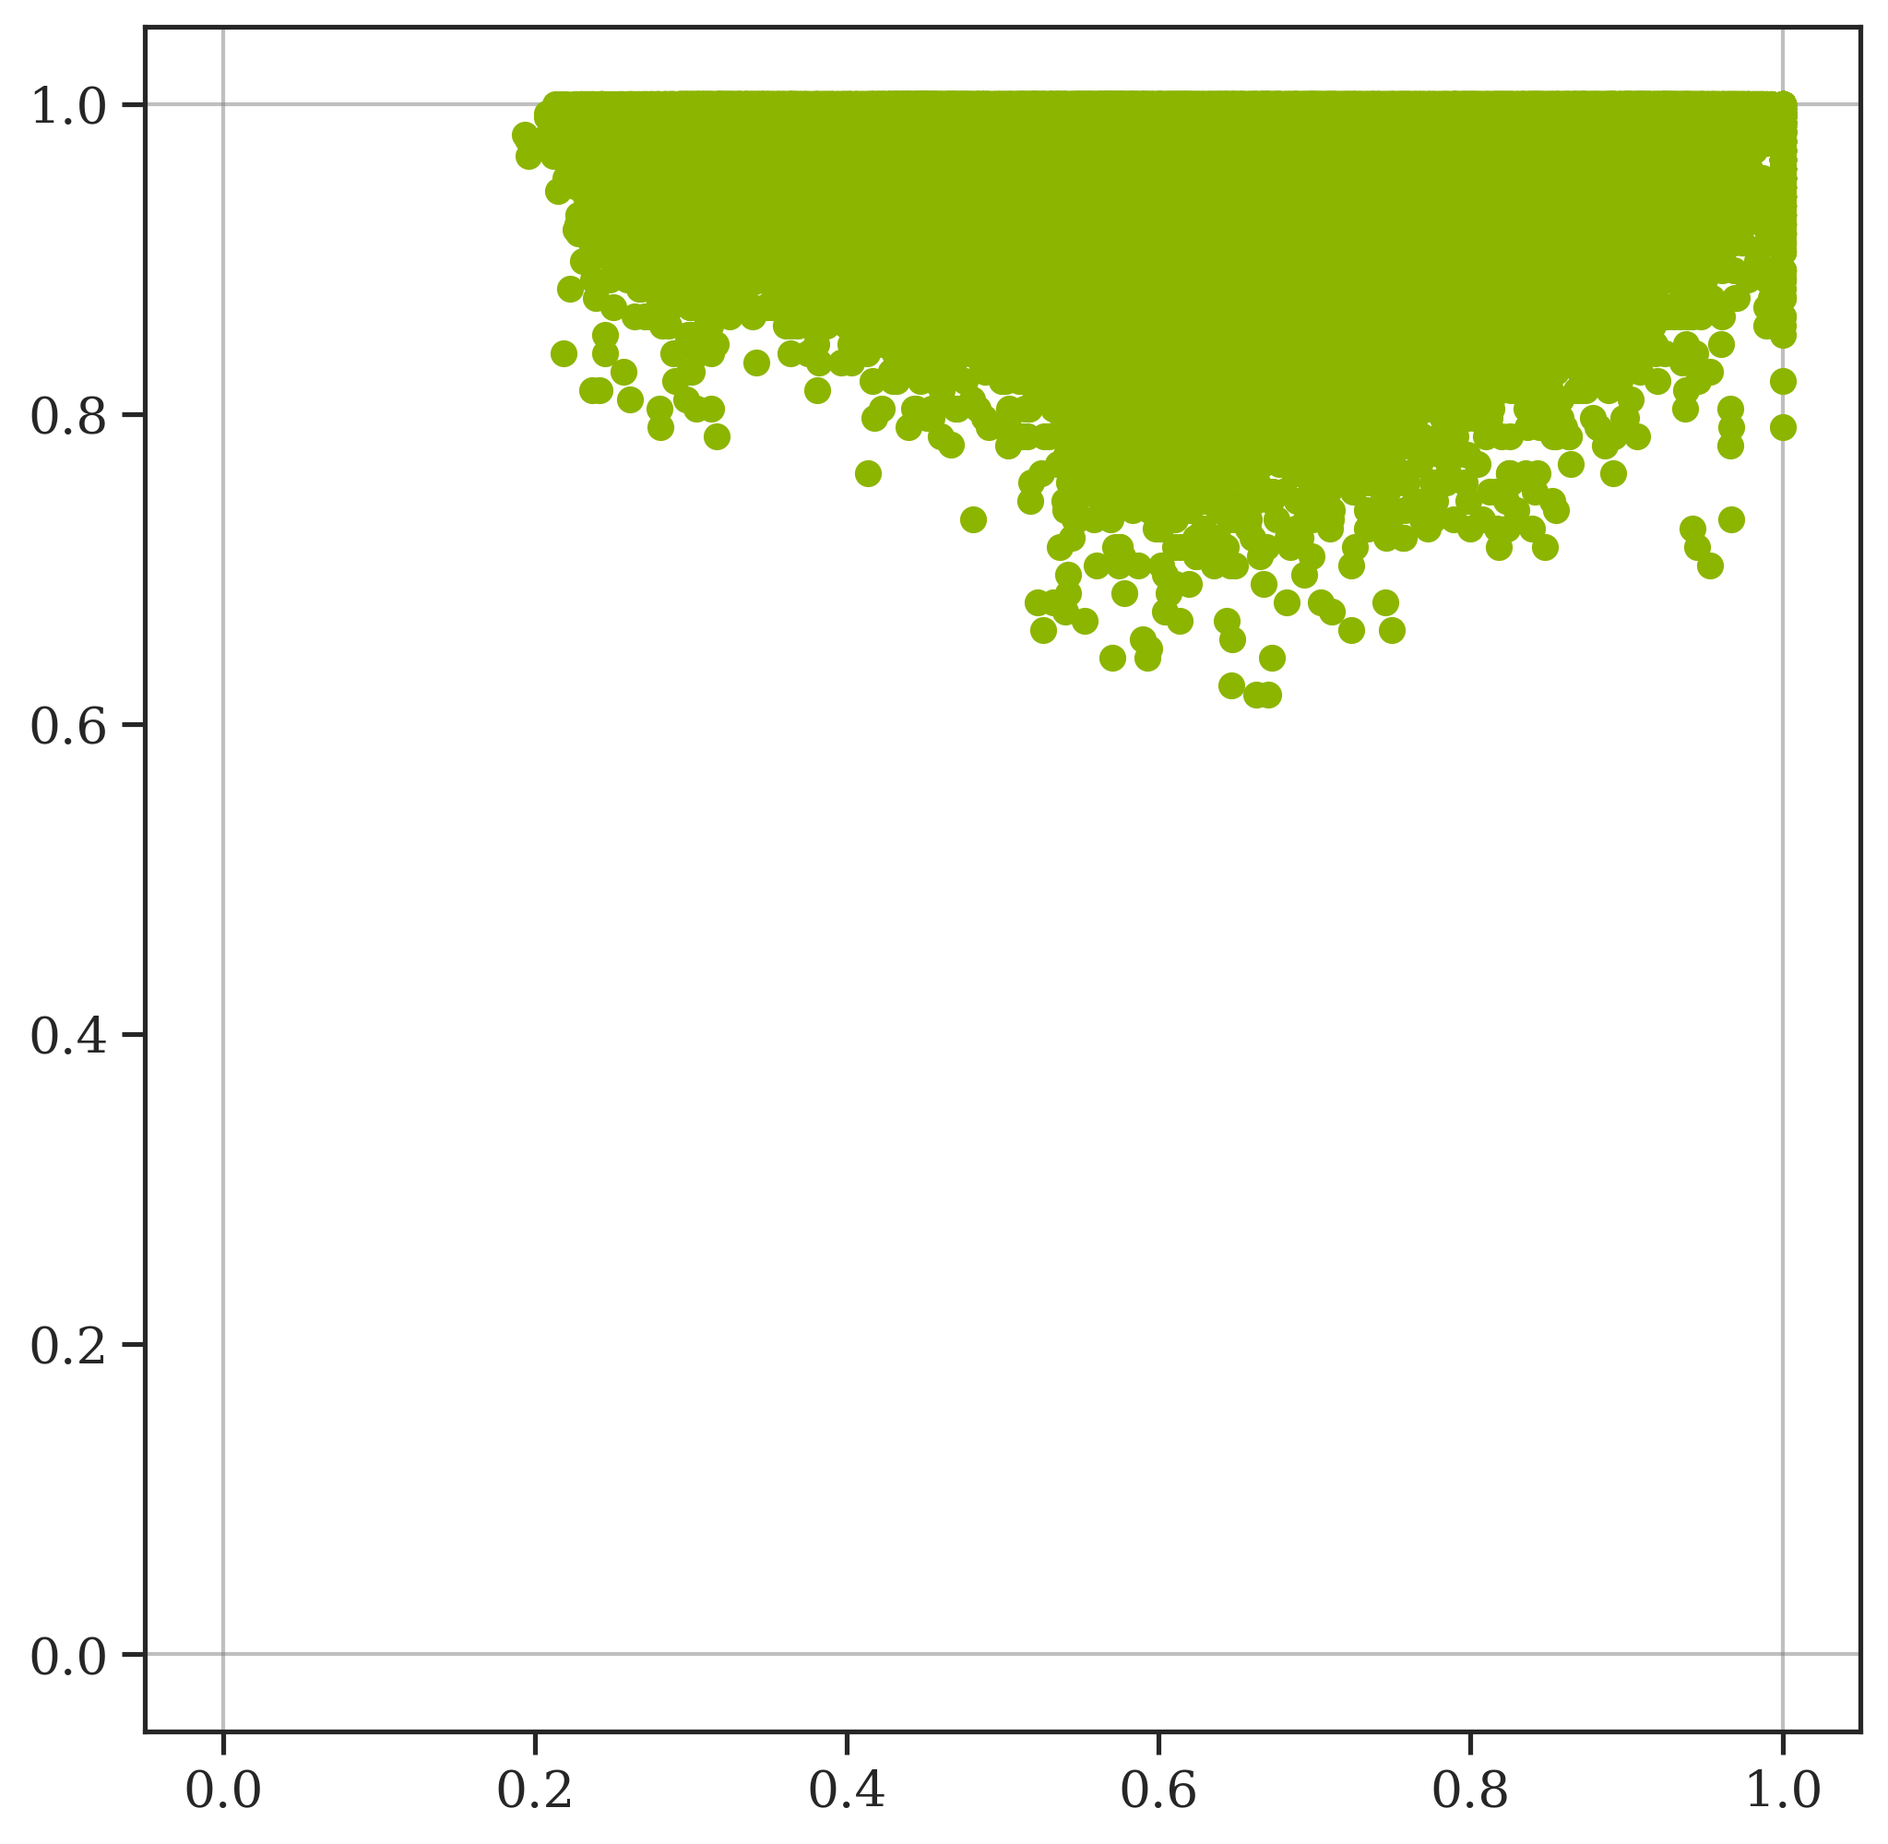
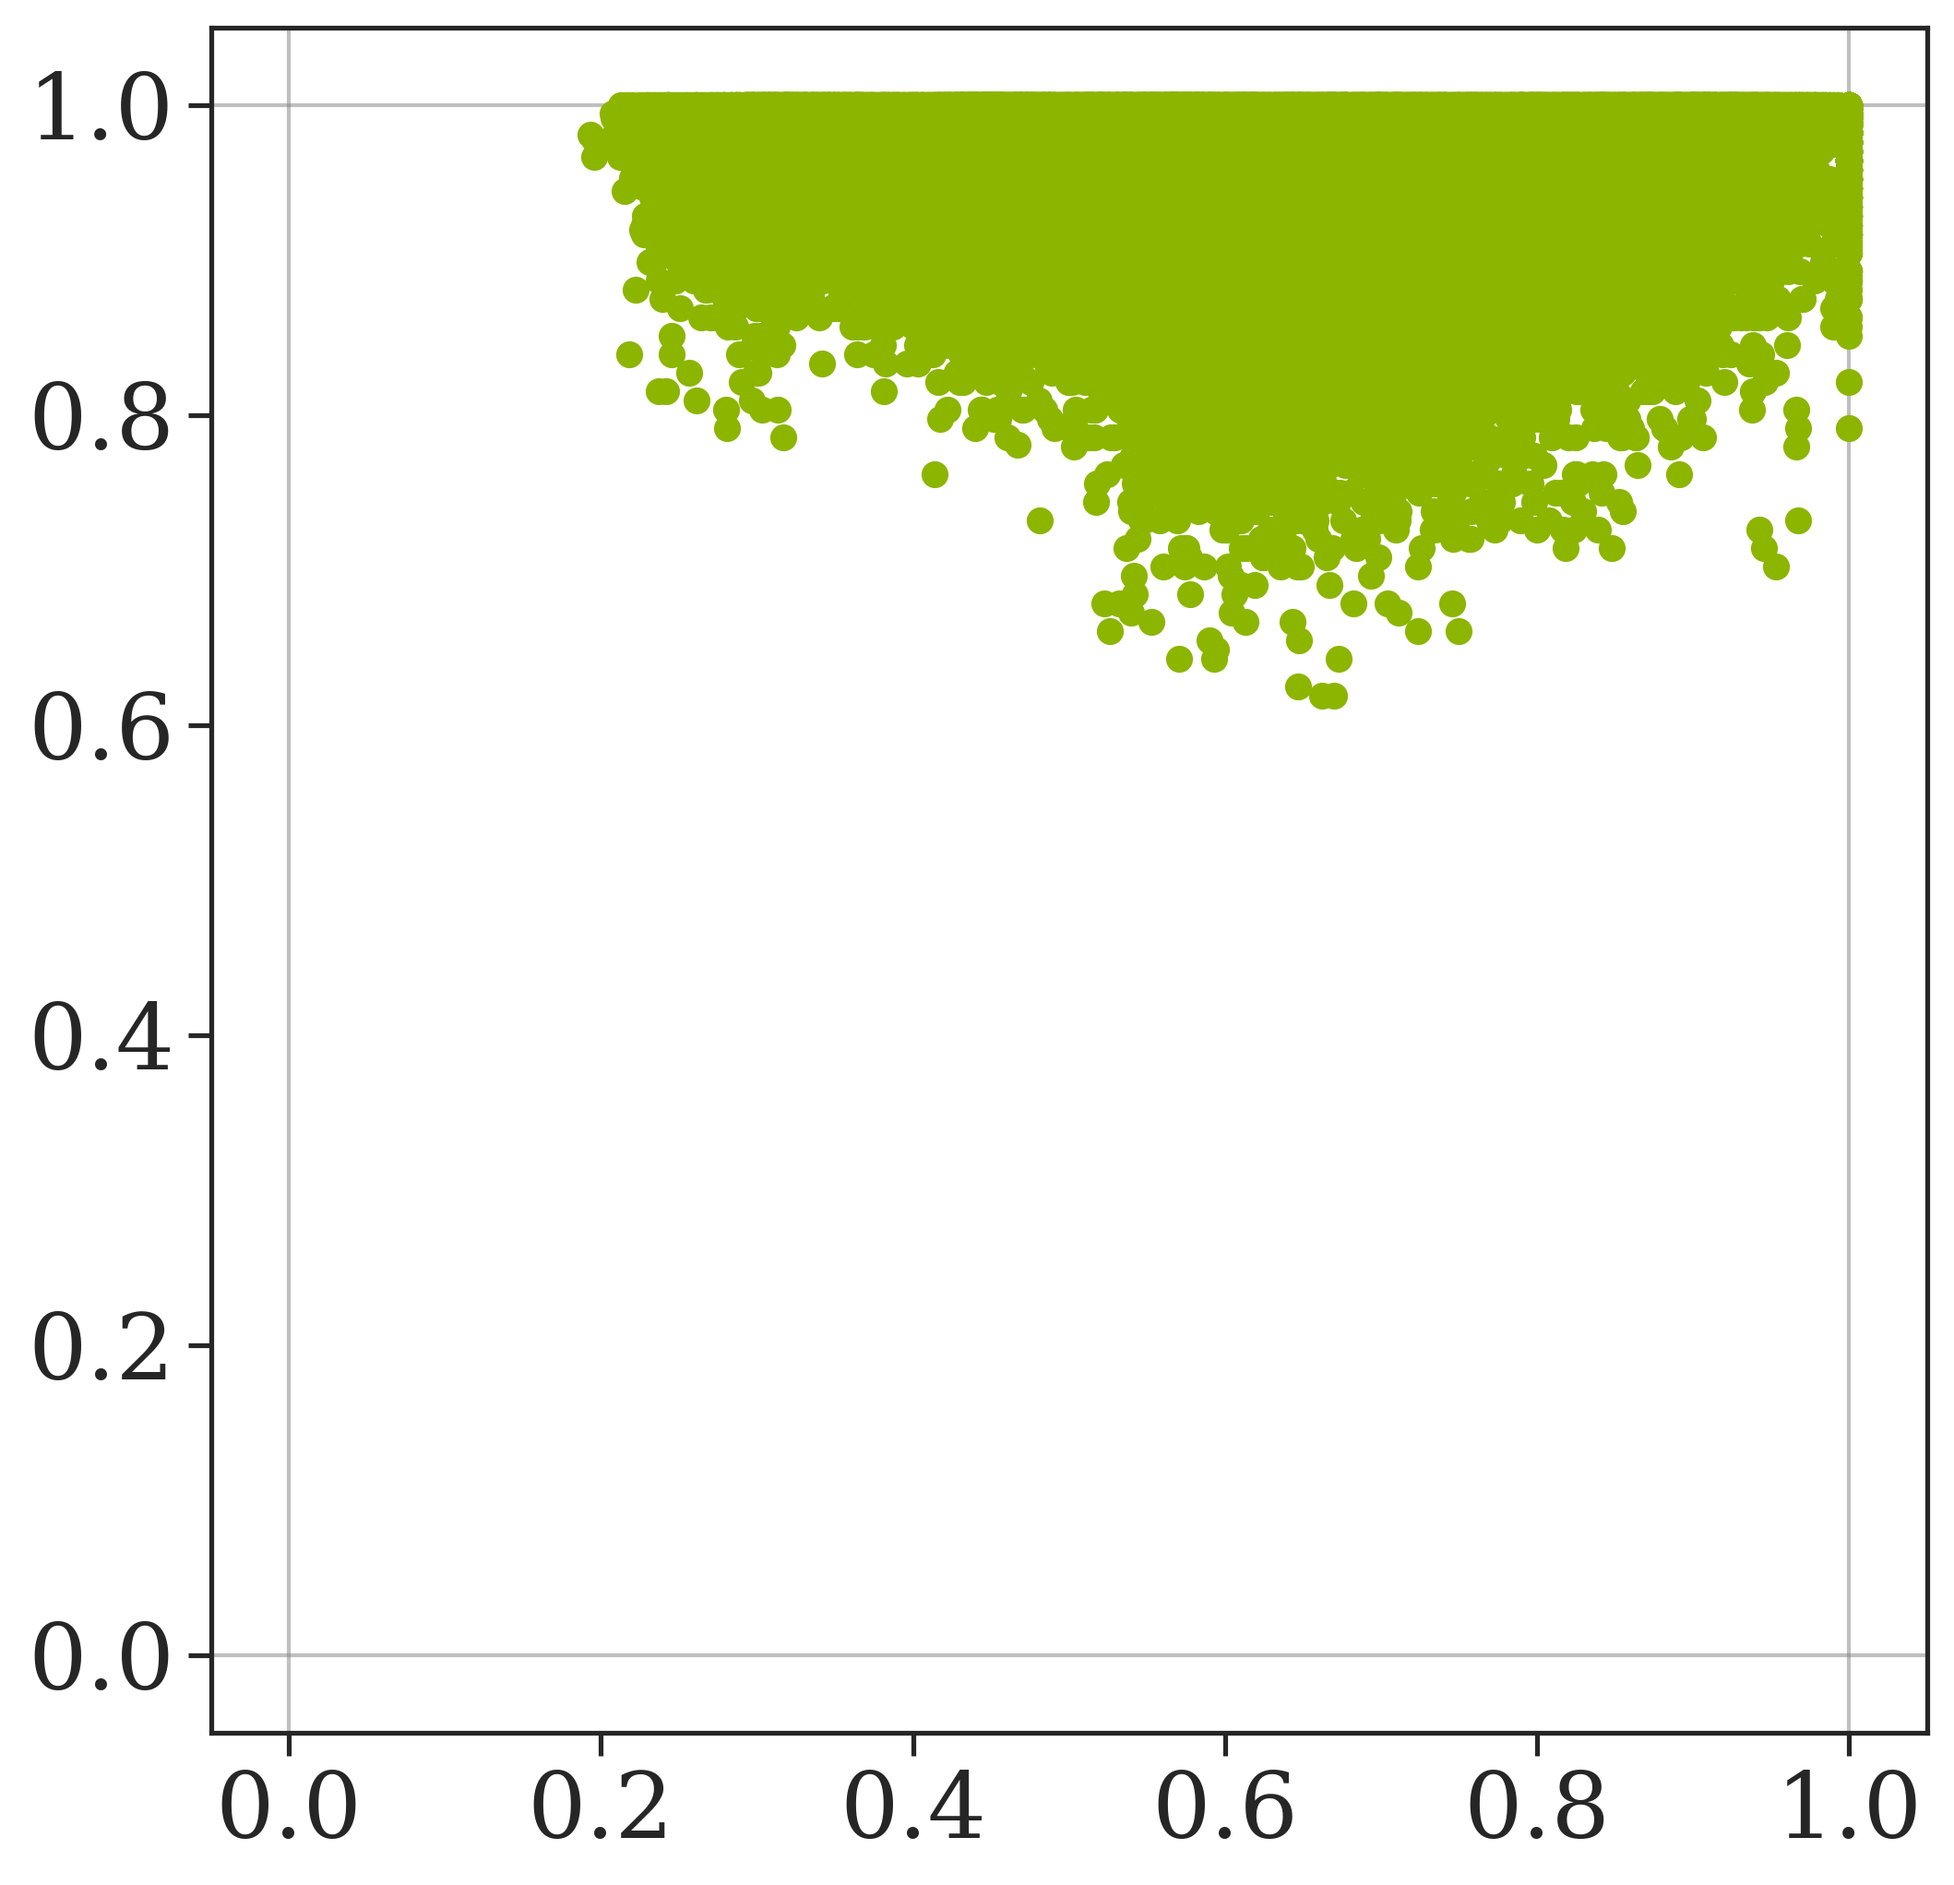
update scatterplot code

Changed region(s): [[0.0, 0.0, 1.0, 0.9925], [0.9233, 0.031, 0.9541, 0.062], [0.4924, 0.2791, 0.5232, 0.3102]]

diff --git a/pipelines/scottish/create_scottish_scatterplots.py b/pipelines/scottish/create_scottish_scatterplots.py
@@ -21,6 +21,14 @@ rule_color_map = {
     "ranked-pairs": "#ffb7c4",  # cherryblossompink
     "random": "#707f8e",  # slategray
 }
+
+
+DEFAULT_FONT_SIZE = 24
+ALT_FONT_SIZES = {
+    "random": 12,
+    "ranked-pairs": 12,
+}
+
 titles = {
     "borda": "Borda",
     "3-approval": "3-Approval",
@@ -119,9 +127,7 @@ def load_outputs_by_election_type(
         dict[str, dict[str, dict[str, list[float]]]]: Nested mapping:
             ``rule -> candidate_count -> metric_key -> metric_values``.
     """
-    election_type_to_metric_to_cand_count: dict[
-        str, dict[str, dict[str, list[float]]]
-    ] = {}
+    election_type_to_metric_to_cand_count: dict[str, dict[str, dict[str, list[float]]]] = {}
 
     for variant, tiebreak, voting_rule in product(
         ["average", "worst_case"], ["lex", "random"], ordered_rules
@@ -218,7 +224,7 @@ def collect_scatter_points(
 
 
 def draw_limited_scatter_base(
-    ax: Axes, x_data: list[float], y_data: list[float], color: str
+    ax: Axes, x_data: list[float], y_data: list[float], color: str, voting_rule: str
 ) -> None:
     """Draw the baseline limited scatter styling.
 
@@ -229,22 +235,31 @@ def draw_limited_scatter_base(
         color (str): Point color.
     """
     ax.scatter(x_data, y_data, color=color)
-    ax.set_xlim(0.5, 1.05)
-    ax.set_ylim(0.5, 1.05)
-    ax.set_xticks([0.5, 0.6, 0.7, 0.8, 0.9, 1.0])
-    ax.vlines(
-        0.0, -0.05, 1.05, color="grey", linestyle="-", linewidth=1, zorder=-1, alpha=0.5
+    # ax.set_xticks([0.5, 0.6, 0.7, 0.8, 0.9, 1.0])
+
+    # ax.set_xlim(-0.05, 1.05)
+    # ax.set_ylim(-0.05, 1.05)
+
+    ticks = [0.5, 0.6, 0.7, 0.8, 0.9, 1.0]
+
+    ax.set_xlim(min(ticks) - 0.05, max(ticks) + 0.05)
+    ax.set_ylim(min(ticks) - 0.05, max(ticks) + 0.05)
+
+    ax.set_xticks(
+        ticks,
+        labels=[f"{tick:.1f}" for tick in ticks],
+        fontsize=ALT_FONT_SIZES.get(voting_rule, DEFAULT_FONT_SIZE),
     )
-    ax.vlines(
-        1.0, -0.05, 1.05, color="grey", linestyle="-", linewidth=1, zorder=-1, alpha=0.5
-    )
-    ax.hlines(
-        0.0, -0.05, 1.05, color="grey", linestyle="-", linewidth=1, zorder=-1, alpha=0.5
-    )
-    ax.hlines(
-        1.0, -0.05, 1.05, color="grey", linestyle="-", linewidth=1, zorder=-1, alpha=0.5
+    ax.set_yticks(
+        ticks,
+        labels=[f"{tick:.1f}" for tick in ticks],
+        fontsize=ALT_FONT_SIZES.get(voting_rule, DEFAULT_FONT_SIZE),
     )
 
+    ax.vlines(0.0, -0.05, 1.05, color="grey", linestyle="-", linewidth=1, zorder=-1, alpha=0.5)
+    ax.vlines(1.0, -0.05, 1.05, color="grey", linestyle="-", linewidth=1, zorder=-1, alpha=0.5)
+    ax.hlines(0.0, -0.05, 1.05, color="grey", linestyle="-", linewidth=1, zorder=-1, alpha=0.5)
+    ax.hlines(1.0, -0.05, 1.05, color="grey", linestyle="-", linewidth=1, zorder=-1, alpha=0.5)
 
 
 def build_limited_scatter_plot_name(
@@ -283,9 +298,7 @@ def create_limited_scatter_plot(
     um_key: str,
     iia_key: str,
     output_path: Path,
-    overlay_fn: (
-        Callable[[Axes, str, str, str, list[float], list[float]], None] | None
-    ) = None,
+    overlay_fn: (Callable[[Axes, str, str, str, list[float], list[float]], None] | None) = None,
 ) -> None:
     """Create and save one limited scatter plot.
 
@@ -309,7 +322,11 @@ def create_limited_scatter_plot(
         iia_key=iia_key,
     )
     draw_limited_scatter_base(
-        ax=ax, x_data=x_data, y_data=y_data, color=rule_color_map[voting_rule]
+        ax=ax,
+        x_data=x_data,
+        y_data=y_data,
+        color=rule_color_map[voting_rule],
+        voting_rule=voting_rule,
     )
     if overlay_fn is not None:
         overlay_fn(ax, voting_rule, um_key, iia_key, x_data, y_data)
@@ -413,14 +430,10 @@ def run_full_scatter_plots(
         ]
 
         for voting_rule in ordered_rules:
-            for (um_key, um_label), (iia_key, iia_label) in product(
-                um_ranking, iia_ranking
-            ):
+            for (um_key, um_label), (iia_key, iia_label) in product(um_ranking, iia_ranking):
                 scatter_dir = output_dir / "scatter" / f"um-{variant1}_iia-{variant2}"
                 scatter_dir.mkdir(parents=True, exist_ok=True)
-                plot_name = (
-                    scatter_dir / f"{voting_rule}_{um_key}_vs_{iia_key}_scatter.png"
-                )
+                plot_name = scatter_dir / f"{voting_rule}_{um_key}_vs_{iia_key}_scatter.png"
                 create_full_scatter_plot(
                     outputs_by_election_type=outputs_by_election_type,
                     voting_rule=voting_rule,
@@ -432,16 +445,10 @@ def run_full_scatter_plots(
                     plot_title=voting_rule,
                 )
 
-            for (um_key, um_label), (iia_key, iia_label) in product(
-                um_winner_set, iia_winner_set
-            ):
-                scatter_dir = (
-                    output_dir / "scatter" / f"umws-{variant1}_iiaws-{variant2}"
-                )
+            for (um_key, um_label), (iia_key, iia_label) in product(um_winner_set, iia_winner_set):
+                scatter_dir = output_dir / "scatter" / f"umws-{variant1}_iiaws-{variant2}"
                 scatter_dir.mkdir(parents=True, exist_ok=True)
-                plot_name = (
-                    scatter_dir / f"{voting_rule}_{um_key}_vs_{iia_key}_scatter.png"
-                )
+                plot_name = scatter_dir / f"{voting_rule}_{um_key}_vs_{iia_key}_scatter.png"
                 create_full_scatter_plot(
                     outputs_by_election_type=outputs_by_election_type,
                     voting_rule=voting_rule,
@@ -462,9 +469,7 @@ def run_limited_scatter_plots(
     variant_iia: str = "average",
     tiebreak: str = "lex",
     scatter_subdir: str = "scatter_by_voting_rule",
-    overlay_fn: (
-        Callable[[Axes, str, str, str, list[float], list[float]], None] | None
-    ) = None,
+    overlay_fn: (Callable[[Axes, str, str, str, list[float], list[float]], None] | None) = None,
 ) -> None:
     """Generate the limited Scottish scatter plots for all rules.
 

diff --git a/pipelines/bradley-terry/make_plots/um_vs_iia_plots.py b/pipelines/bradley-terry/make_plots/um_vs_iia_plots.py
@@ -25,6 +25,14 @@ rule_color_map = {
     "ranked-pairs": "#ffb7c4",  # cherryblossompink
     "random": "#707f8e",  # slategray
 }
+
+
+DEFAULT_FONT_SIZE = 24
+ALT_FONT_SIZES = {
+    "random": 12,
+    "ranked-pairs": 12,
+}
+
 titles = {
     "borda": "Borda",
     "plurality": "Plurality",
@@ -47,6 +55,7 @@ for metric in iia_metric_list:
         "2-approval",
         "3-approval",
         "ranked-pairs",
+        "random",
     ]:
         iia_file_basename = (
             f"METRIC_{metric}"
@@ -92,8 +101,23 @@ for metric in iia_metric_list:
         print(f"Creating plot: {plot_name} with {len(um_data)} points.")
 
         ax.scatter(um_data, iia_data, color=rule_color_map[voting_rule])
-        ax.set_xlim(-0.05, 1.05)
-        ax.set_ylim(-0.05, 1.05)
+
+        ticks = [0.0, 0.2, 0.4, 0.6, 0.8, 1.0]
+
+        ax.set_xlim(min(ticks) - 0.05, max(ticks) + 0.05)
+        ax.set_ylim(min(ticks) - 0.05, max(ticks) + 0.05)
+
+        ax.set_xticks(
+            ticks,
+            labels=[f"{tick:.1f}" for tick in ticks],
+            fontsize=ALT_FONT_SIZES.get(voting_rule, DEFAULT_FONT_SIZE),
+        )
+        ax.set_yticks(
+            ticks,
+            labels=[f"{tick:.1f}" for tick in ticks],
+            fontsize=ALT_FONT_SIZES.get(voting_rule, DEFAULT_FONT_SIZE),
+        )
+
         ax.vlines(
             0.0,
             -0.05,
